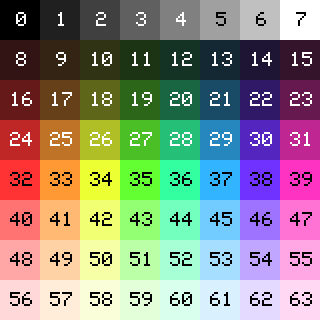
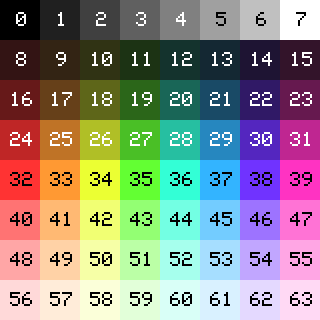
ColorMap change to use a better cyan

Changed region(s): [[0.5, 0.375, 0.625, 0.75]]

diff --git a/src/rgb_map.js b/src/rgb_map.js
@@ -1,12 +1,12 @@
 const rgb_map_quick = [
   0x000000,0x202020,0x404040,0x606060,0x808080,0xa0a0a0,0xc0c0c0,0xffffff,
-  0x331414,0x332414,0x303314,0x1c3314,0x143325,0x142833,0x1e1433,0x33142a,
-  0x661919,0x664019,0x5e6619,0x2b6619,0x196642,0x194a66,0x301966,0x66194f,
-  0xbf2626,0xbf7326,0xb0bf26,0x4abf26,0x26bf78,0x2687bf,0x5426bf,0xbf2691,
-  0xff3333,0xff9933,0xebff33,0x63ff33,0x33ffa0,0x33b4ff,0x7033ff,0xff33c2,
-  0xff7373,0xffb973,0xf1ff73,0x93ff73,0x73ffbe,0x73ccff,0x9d73ff,0xff73d5,
-  0xffa6a6,0xffd2a6,0xf6ffa6,0xbbffa6,0xa6ffd5,0xa6deff,0xc1a6ff,0xffa6e4,
-  0xffd9d9,0xffecd9,0xfbffd9,0xe2ffd9,0xd9ffed,0xd9f1ff,0xe4d9ff,0xffd9f4,
+  0x331414,0x332414,0x303314,0x1c3314,0x14332d,0x142833,0x1e1433,0x33142a,
+  0x661919,0x664019,0x5e6619,0x2b6619,0x196657,0x194a66,0x301966,0x66194f,
+  0xbf2626,0xbf7326,0xb0bf26,0x4abf26,0x26bfa1,0x2687bf,0x5426bf,0xbf2691,
+  0xff3333,0xff9933,0xebff33,0x63ff33,0x33ffd6,0x33b4ff,0x7033ff,0xff33c2,
+  0xff7373,0xffb973,0xf1ff73,0x93ff73,0x73ffe3,0x73ccff,0x9d73ff,0xff73d5,
+  0xffa6a6,0xffd2a6,0xf6ffa6,0xbbffa6,0xa6ffed,0xa6deff,0xc1a6ff,0xffa6e4,
+  0xffd9d9,0xffecd9,0xfbffd9,0xe2ffd9,0xd9fff7,0xd9f1ff,0xe4d9ff,0xffd9f4,
 ];
 
 const rgb_map_dos = [
